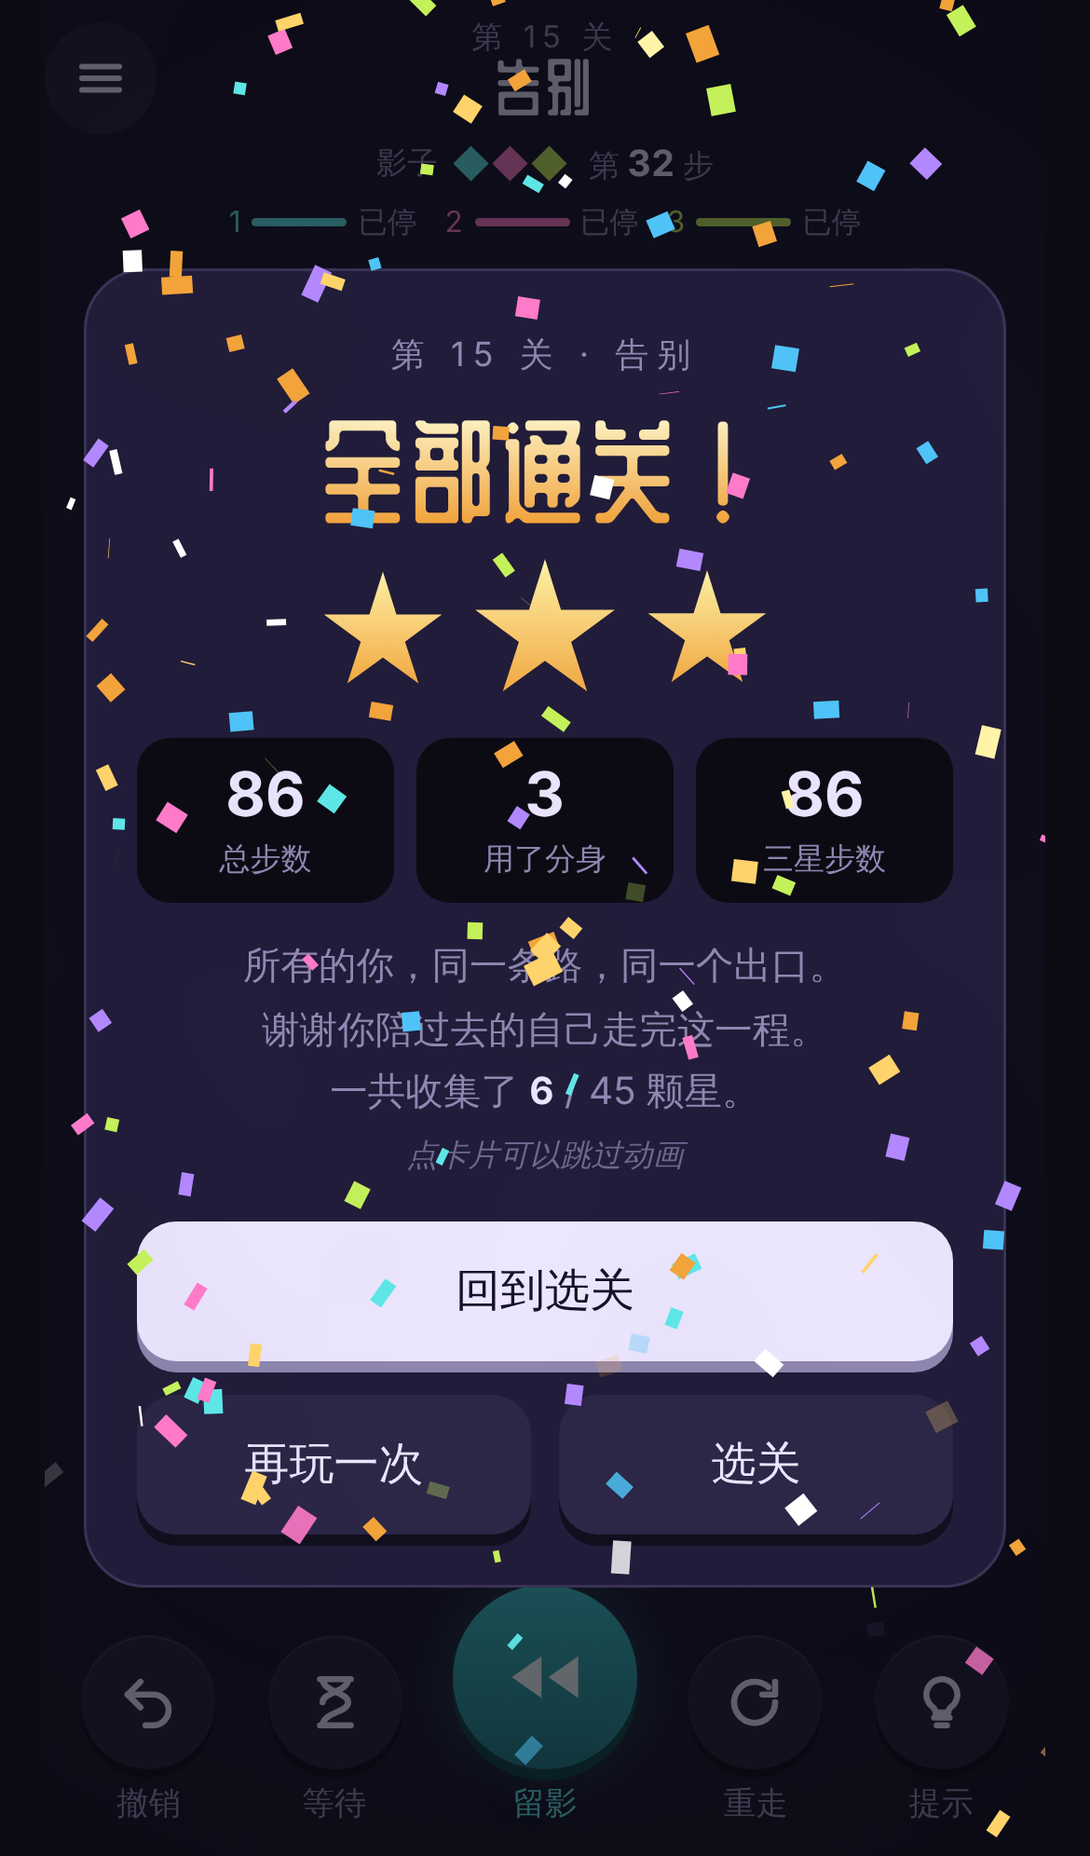
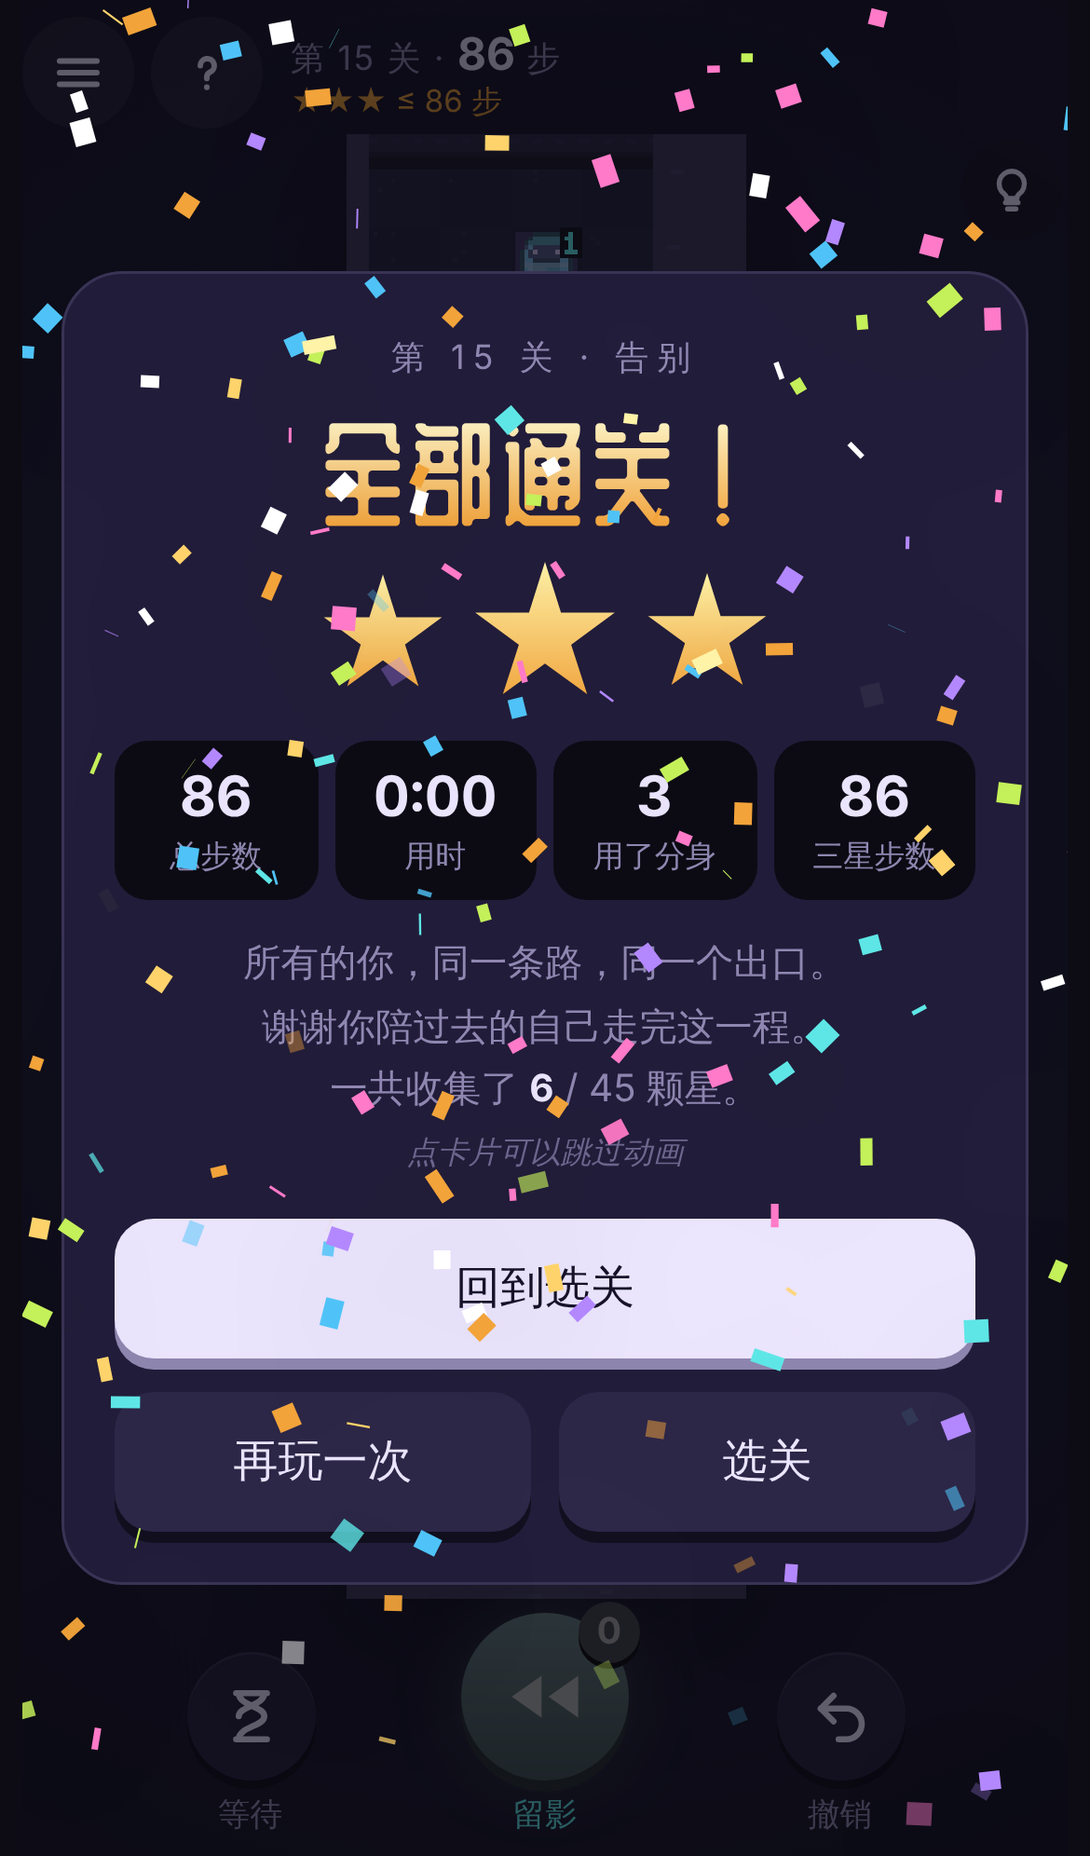
游玩时显示步数和下一档星级目标；记录每关用时，结算显示用时，选关页显示最佳步数和最短用时
Claude-Session: https://claude.ai/code/session_016AuyL4w4c3u8YAF1PVzn5C

diff --git a/index.html b/index.html
@@ -41,7 +41,10 @@ button{font:inherit;color:inherit;-webkit-tap-highlight-color:transparent;touch-
 .ico.sm svg{width:18px;height:18px}
 .ico{width:40px;height:40px;border-radius:50%;background:rgba(255,255,255,.06);border:none;cursor:pointer;display:grid;place-items:center}
 .ico svg{width:20px;height:20px}
-#lvchip{font-size:12px;color:var(--dim);letter-spacing:.08em;padding-left:4px;white-space:nowrap}
+#lvchip{font-size:12px;color:var(--dim);letter-spacing:.06em;padding-left:4px;white-space:nowrap;display:flex;flex-direction:column;gap:1px;line-height:1.25}
+#lvchip b{color:var(--ink);font-size:16px;font-variant-numeric:tabular-nums;letter-spacing:0}
+#lvchip .goal{font-size:11px;letter-spacing:0}
+#lvchip .goal.s3{color:var(--amber)}
 /* hint bulb floats on the board's top-right corner, just under the capsule */
 #hintBtn{position:absolute;top:2px;right:2px;z-index:2;background:rgba(20,17,34,.6)}
 /* level name: fades in over the board when a level starts, then goes away */
@@ -111,6 +114,7 @@ canvas{display:block;image-rendering:pixelated;image-rendering:crisp-edges;filte
 .lv small{color:var(--dim);font-size:10.5px}
 .lv.done{border-color:#4f8f56}
 .lv.done small{color:var(--mint)}
+.lv small.rec{color:var(--dim);font-size:10px;white-space:nowrap}
 .lv:disabled{opacity:.35;cursor:not-allowed}
 #winOv{background:rgba(10,9,16,.62);align-items:center}
 #helpList{display:flex;flex-direction:column;gap:10px}
@@ -127,9 +131,9 @@ canvas{display:block;image-rendering:pixelated;image-rendering:crisp-edges;filte
 #stars i:nth-child(2){width:52px;height:52px}
 #stars i.on{background:linear-gradient(180deg,#fff3a8,#f2a33a);animation:starpop .45s cubic-bezier(.2,1.8,.4,1) both;filter:drop-shadow(0 0 10px rgba(242,163,58,.6))}
 @keyframes starpop{0%{transform:scale(0) rotate(-40deg)}100%{transform:scale(1) rotate(0)}}
-#winStats{display:grid;grid-template-columns:repeat(3,1fr);gap:8px}
+#winStats{display:grid;grid-template-columns:repeat(4,1fr);gap:6px}
 #winStats div{background:var(--bg);border-radius:12px;padding:8px 4px;display:flex;flex-direction:column;gap:2px}
-#winStats b{font-size:22px;font-variant-numeric:tabular-nums}
+#winStats b{font-size:20px;font-variant-numeric:tabular-nums}
 #winStats span{font-size:11px;color:var(--dim)}
 #newRec{align-self:center;font-size:12px;color:#1a1426;background:var(--amber);border-radius:999px;padding:3px 10px;animation:pop .4s .9s cubic-bezier(.2,1.6,.4,1) both}
 #winP{font-size:13.5px}
@@ -149,7 +153,7 @@ canvas{display:block;image-rendering:pixelated;image-rendering:crisp-edges;filte
 <div id="app">
   <div id="top">
     <div id="topL"><button class="ico" id="menuBtn" type="button" aria-label="菜单"><svg viewBox="0 0 24 24" fill="none" stroke="currentColor" stroke-width="2.4" stroke-linecap="round"><path d="M4 7h16M4 12h16M4 17h16"/></svg></button>
-    <button class="ico" id="helpBtn" type="button" aria-label="帮助"><svg viewBox="0 0 24 24" fill="none" stroke="currentColor" stroke-width="2.4" stroke-linecap="round" stroke-linejoin="round"><path d="M9.2 9a3 3 0 1 1 4.3 2.7c-.9.4-1.5 1.2-1.5 2.2v.6"/><path d="M12 18.2v.1"/></svg></button><span id="lvchip">第 1 关</span></div>
+    <button class="ico" id="helpBtn" type="button" aria-label="帮助"><svg viewBox="0 0 24 24" fill="none" stroke="currentColor" stroke-width="2.4" stroke-linecap="round" stroke-linejoin="round"><path d="M9.2 9a3 3 0 1 1 4.3 2.7c-.9.4-1.5 1.2-1.5 2.2v.6"/><path d="M12 18.2v.1"/></svg></button><span id="lvchip"></span></div>
   </div>
   <div id="stage"><canvas id="cv"></canvas><button class="ico sm" id="hintBtn" data-c="solve" type="button" aria-label="提示"><svg viewBox="0 0 24 24" fill="none" stroke="currentColor" stroke-width="2.4" stroke-linecap="round" stroke-linejoin="round"><path d="M9 18h6M10 21h4M12 3a6 6 0 0 0-3.5 10.9c.6.5 1 1.2 1 2.1h5c0-.9.4-1.6 1-2.1A6 6 0 0 0 12 3z"/></svg></button><div id="intro"></div><div id="toast"></div><div id="tip" hidden><span id="tipText"></span><button id="tipSolve" type="button">演示解法</button></div><div id="coach" hidden><i></i>在棋盘上滑动来移动，点自己原地等一步</div></div>
   <div id="bar">
@@ -201,7 +205,7 @@ canvas{display:block;image-rendering:pixelated;image-rendering:crisp-edges;filte
       <div id="winKicker">第 1 关 · 回声</div>
       <h2 id="winT">通关！</h2>
       <div id="stars" aria-label="星级"><i></i><i></i><i></i></div>
-      <div id="winStats"><div><b id="wsSteps">0</b><span>总步数</span></div><div><b id="wsGhosts">0</b><span>用了分身</span></div><div><b id="wsPar">0</b><span>三星步数</span></div></div>
+      <div id="winStats"><div><b id="wsSteps">0</b><span>总步数</span></div><div><b id="wsTime">0:00</b><span>用时</span></div><div><b id="wsGhosts">0</b><span>用了分身</span></div><div><b id="wsPar">0</b><span>三星步数</span></div></div>
       <div id="newRec" hidden>新纪录</div>
       <p id="winP"></p>
       <div class="row"><button class="btn pri" id="nextBtn" type="button">下一关</button></div>
@@ -317,6 +321,11 @@ const PLATE_COL={a:'#f2a33a',b:'#4fc3f7',c:'#b388ff',d:'#7ee081'};
 const MOVE_MS=115;
 const store={get(k,d){try{const v=localStorage.getItem(k);return v?JSON.parse(v):d;}catch(e){return d;}},set(k,v){try{localStorage.setItem(k,JSON.stringify(v));}catch(e){}}};
 let progress=store.get('zuori-progress2',null);
+let playMs=0,playT0=0;
+function clockStart(){playMs=0;playT0=document.hidden?0:performance.now();}
+function clockNow(){return playMs+(playT0?performance.now()-playT0:0);}
+document.addEventListener('visibilitychange',()=>{if(document.hidden){if(playT0){playMs+=performance.now()-playT0;playT0=0;}}else if(!playT0)playT0=performance.now();});
+function fmtTime(ms){const t=Math.round(ms/1000);return Math.floor(t/60)+':'+String(t%60).padStart(2,'0');}
 if(!progress){progress={solved:{}};const old=store.get('zuori-progress',{solved:{}});
   for(const k in old.solved){const n=OLD_ORDER[+k];if(n)progress.solved[n]=old.solved[k];}}
 function maxOpenIdx(){let i=0;while(i<LEVELS.length-1&&progress.solved[LEVELS[i].name])i++;return i;}
@@ -408,7 +417,7 @@ function applyRot(r){if(r===rot)return;rot=r;ghosts=ghosts.map(swapArr);cur=swap
 function loadLevel(i,keep){li=i;L=LEVELS[i];rot=wantRot();g=parseLevel(levelView());ghosts=[];cur=[];won=false;winShown=false;queue=[];rewinding=null;autoplay=null;particles=[];
     recompute(true);doorOpen=frames[0].doors.slice().map(v=>v?1:0);
   buf.width=g.W*TS;buf.height=g.H*TS;calcView();resize();
-  $('lvchip').textContent='第 '+(i+1)+' 关';
+  clockStart();
   $('tip').hidden=true;$('coach').hidden=!!store.get('zuori-coached',false);
   hideOv();{const it=$('intro');it.innerHTML='<small>第 '+(i+1)+' 关</small>'+L.name;it.classList.remove('show');void it.offsetWidth;it.classList.add('show');}
   store.set('zuori-last',i);
@@ -421,6 +430,10 @@ function curFrame(){return frames[frames.length-1];}
 
 function updateHud(){
   const left=L.cap-ghosts.length;$('rwLeft').textContent=left;$('rwBtn').classList.toggle('empty',left<=0);
+  // steps so far (shadows' rounds + this round) and how many the next star allows
+  const n=ghosts.reduce((t,r)=>t+r.length,0)+cur.length,par=parOf(L),p2=Math.ceil(par*1.35)+2;
+  const goal=n<=par?'<span class="goal s3">★★★ ≤ '+par+' 步</span>':n<=p2?'<span class="goal">★★ ≤ '+p2+' 步</span>':'<span class="goal">★</span>';
+  $('lvchip').innerHTML='<span>第 '+(li+1)+' 关 · <b>'+n+'</b> 步</span>'+goal;
 }
 
 // ---------- input ----------
@@ -501,7 +514,7 @@ function showSel(){hideOv();const gr=$('grid');gr.innerHTML='';
   const maxOpen=maxOpenIdx();
   LEVELS.forEach((lv,i)=>{const bt=document.createElement('button');bt.type='button';const done=progress.solved[lv.name];
     bt.className='lv'+(done?' done':'');bt.disabled=i>maxOpen;
-    bt.innerHTML='<span>'+(i+1)+'</span>'+lv.name+(done?'<small class="st">'+'★'.repeat(done.stars||1)+'☆'.repeat(3-(done.stars||1))+'</small>':'<small>'+(i>maxOpen?'未解锁':lv.cap+' 个影子')+'</small>');
+    bt.innerHTML='<span>'+(i+1)+'</span>'+lv.name+(done?'<small class="st">'+'★'.repeat(done.stars||1)+'☆'.repeat(3-(done.stars||1))+'</small><small class="rec">'+done.steps+'步'+(done.ms!=null?' · '+fmtTime(done.ms):'')+'</small>':'<small>'+(i>maxOpen?'未解锁':lv.cap+' 个影子')+'</small>');
     bt.onclick=()=>loadLevel(i);gr.appendChild(bt);});
   $('selOv').hidden=false;}
 $('startBtn').onclick=()=>{ac();const last=store.get('zuori-last',0);const maxOpen=maxOpenIdx();loadLevel(Math.min(last,maxOpen,LEVELS.length-1));};
@@ -525,11 +538,12 @@ $('muteBtn').onclick=toggleMute;$('muteBtn').textContent='声音：'+(muted?'关
 // ---------- win celebration ----------
 function parOf(lv){return lv.sol.reduce((n,x)=>n+x.length,0);}
 function starsFor(lv,steps){const par=parOf(lv);return steps<=par?3:steps<=Math.ceil(par*1.35)+2?2:1;}
-let celeT0=0,winTimer=null,winAnim=[];
+let celeT0=0,winTimer=null,winAnim=[],lastMs=0;
 function onWin(){autoplay=autoplay&&autoplay.loop<L.sol.length?autoplay:null;
   const steps=ghosts.reduce((s,r)=>s+r.length,0)+cur.length;const stars=starsFor(L,steps);
-  const prev=progress.solved[L.name];const rec=!prev||steps<prev.steps;
-  progress.solved[L.name]={steps:rec?steps:prev.steps,stars:Math.max(stars,prev&&prev.stars||0)};store.set('zuori-progress2',progress);
+  const ms=clockNow();const prev=progress.solved[L.name];const rec=!prev||steps<prev.steps||(prev.ms==null||ms<prev.ms);
+  progress.solved[L.name]={steps:prev?Math.min(steps,prev.steps):steps,stars:Math.max(stars,prev&&prev.stars||0),ms:prev&&prev.ms!=null?Math.min(ms,prev.ms):ms};store.set('zuori-progress2',progress);
+  lastMs=ms;
   if(fast)return;
   const last=li===LEVELS.length-1;celeT0=performance.now();
   SFX.win();vibrate(last?[30,50,30,50,30,50,120]:[25,40,25,40,70]);
@@ -540,7 +554,7 @@ function showWin(steps,stars,prev,rec,last){if(!won||winShown)return;winShown=tr
   const ov=$('winOv');ov.classList.remove('skip');ov.classList.toggle('finale',last);
   $('winKicker').textContent='第 '+(li+1)+' 关 · '+L.name;
   $('winT').textContent=last?'全部通关！':['','过关','漂亮！','完美！'][stars];
-  $('wsGhosts').textContent=ghosts.length;$('wsPar').textContent=parOf(L);$('wsSteps').textContent='0';
+  $('wsGhosts').textContent=ghosts.length;$('wsTime').textContent=fmtTime(lastMs);$('wsPar').textContent=parOf(L);$('wsSteps').textContent='0';
   $('newRec').hidden=!(rec&&prev);
   const total=LEVELS.reduce((n,lv)=>n+(progress.solved[lv.name]?.stars||0),0);
   $('winP').innerHTML=last?['所有的你，同一条路，同一个出口。','谢谢你陪过去的自己走完这一程。','一共收集了 <b>'+total+'</b> / '+LEVELS.length*3+' 颗星。','<i id="skipHint">点卡片可以跳过动画</i>'].map((t,i)=>'<span style="animation-delay:'+(0.9+i*0.6)+'s">'+t+'</span>').join('')

diff --git a/src/game.src.html b/src/game.src.html
@@ -33,7 +33,10 @@ button{font:inherit;color:inherit;-webkit-tap-highlight-color:transparent;touch-
 .ico.sm svg{width:18px;height:18px}
 .ico{width:40px;height:40px;border-radius:50%;background:rgba(255,255,255,.06);border:none;cursor:pointer;display:grid;place-items:center}
 .ico svg{width:20px;height:20px}
-#lvchip{font-size:12px;color:var(--dim);letter-spacing:.08em;padding-left:4px;white-space:nowrap}
+#lvchip{font-size:12px;color:var(--dim);letter-spacing:.06em;padding-left:4px;white-space:nowrap;display:flex;flex-direction:column;gap:1px;line-height:1.25}
+#lvchip b{color:var(--ink);font-size:16px;font-variant-numeric:tabular-nums;letter-spacing:0}
+#lvchip .goal{font-size:11px;letter-spacing:0}
+#lvchip .goal.s3{color:var(--amber)}
 /* hint bulb floats on the board's top-right corner, just under the capsule */
 #hintBtn{position:absolute;top:2px;right:2px;z-index:2;background:rgba(20,17,34,.6)}
 /* level name: fades in over the board when a level starts, then goes away */
@@ -103,6 +106,7 @@ canvas{display:block;image-rendering:pixelated;image-rendering:crisp-edges;filte
 .lv small{color:var(--dim);font-size:10.5px}
 .lv.done{border-color:#4f8f56}
 .lv.done small{color:var(--mint)}
+.lv small.rec{color:var(--dim);font-size:10px;white-space:nowrap}
 .lv:disabled{opacity:.35;cursor:not-allowed}
 #winOv{background:rgba(10,9,16,.62);align-items:center}
 #helpList{display:flex;flex-direction:column;gap:10px}
@@ -119,9 +123,9 @@ canvas{display:block;image-rendering:pixelated;image-rendering:crisp-edges;filte
 #stars i:nth-child(2){width:52px;height:52px}
 #stars i.on{background:linear-gradient(180deg,#fff3a8,#f2a33a);animation:starpop .45s cubic-bezier(.2,1.8,.4,1) both;filter:drop-shadow(0 0 10px rgba(242,163,58,.6))}
 @keyframes starpop{0%{transform:scale(0) rotate(-40deg)}100%{transform:scale(1) rotate(0)}}
-#winStats{display:grid;grid-template-columns:repeat(3,1fr);gap:8px}
+#winStats{display:grid;grid-template-columns:repeat(4,1fr);gap:6px}
 #winStats div{background:var(--bg);border-radius:12px;padding:8px 4px;display:flex;flex-direction:column;gap:2px}
-#winStats b{font-size:22px;font-variant-numeric:tabular-nums}
+#winStats b{font-size:20px;font-variant-numeric:tabular-nums}
 #winStats span{font-size:11px;color:var(--dim)}
 #newRec{align-self:center;font-size:12px;color:#1a1426;background:var(--amber);border-radius:999px;padding:3px 10px;animation:pop .4s .9s cubic-bezier(.2,1.6,.4,1) both}
 #winP{font-size:13.5px}
@@ -138,7 +142,7 @@ canvas{display:block;image-rendering:pixelated;image-rendering:crisp-edges;filte
 <div id="app">
   <div id="top">
     <div id="topL"><button class="ico" id="menuBtn" type="button" aria-label="菜单"><svg viewBox="0 0 24 24" fill="none" stroke="currentColor" stroke-width="2.4" stroke-linecap="round"><path d="M4 7h16M4 12h16M4 17h16"/></svg></button>
-    <button class="ico" id="helpBtn" type="button" aria-label="帮助"><svg viewBox="0 0 24 24" fill="none" stroke="currentColor" stroke-width="2.4" stroke-linecap="round" stroke-linejoin="round"><path d="M9.2 9a3 3 0 1 1 4.3 2.7c-.9.4-1.5 1.2-1.5 2.2v.6"/><path d="M12 18.2v.1"/></svg></button><span id="lvchip">第 1 关</span></div>
+    <button class="ico" id="helpBtn" type="button" aria-label="帮助"><svg viewBox="0 0 24 24" fill="none" stroke="currentColor" stroke-width="2.4" stroke-linecap="round" stroke-linejoin="round"><path d="M9.2 9a3 3 0 1 1 4.3 2.7c-.9.4-1.5 1.2-1.5 2.2v.6"/><path d="M12 18.2v.1"/></svg></button><span id="lvchip"></span></div>
   </div>
   <div id="stage"><canvas id="cv"></canvas><button class="ico sm" id="hintBtn" data-c="solve" type="button" aria-label="提示"><svg viewBox="0 0 24 24" fill="none" stroke="currentColor" stroke-width="2.4" stroke-linecap="round" stroke-linejoin="round"><path d="M9 18h6M10 21h4M12 3a6 6 0 0 0-3.5 10.9c.6.5 1 1.2 1 2.1h5c0-.9.4-1.6 1-2.1A6 6 0 0 0 12 3z"/></svg></button><div id="intro"></div><div id="toast"></div><div id="tip" hidden><span id="tipText"></span><button id="tipSolve" type="button">演示解法</button></div><div id="coach" hidden><i></i>在棋盘上滑动来移动，点自己原地等一步</div></div>
   <div id="bar">
@@ -190,7 +194,7 @@ canvas{display:block;image-rendering:pixelated;image-rendering:crisp-edges;filte
       <div id="winKicker">第 1 关 · 回声</div>
       <h2 id="winT">通关！</h2>
       <div id="stars" aria-label="星级"><i></i><i></i><i></i></div>
-      <div id="winStats"><div><b id="wsSteps">0</b><span>总步数</span></div><div><b id="wsGhosts">0</b><span>用了分身</span></div><div><b id="wsPar">0</b><span>三星步数</span></div></div>
+      <div id="winStats"><div><b id="wsSteps">0</b><span>总步数</span></div><div><b id="wsTime">0:00</b><span>用时</span></div><div><b id="wsGhosts">0</b><span>用了分身</span></div><div><b id="wsPar">0</b><span>三星步数</span></div></div>
       <div id="newRec" hidden>新纪录</div>
       <p id="winP"></p>
       <div class="row"><button class="btn pri" id="nextBtn" type="button">下一关</button></div>
@@ -212,6 +216,11 @@ const PLATE_COL={a:'#f2a33a',b:'#4fc3f7',c:'#b388ff',d:'#7ee081'};
 const MOVE_MS=115;
 const store={get(k,d){try{const v=localStorage.getItem(k);return v?JSON.parse(v):d;}catch(e){return d;}},set(k,v){try{localStorage.setItem(k,JSON.stringify(v));}catch(e){}}};
 let progress=store.get('zuori-progress2',null);
+let playMs=0,playT0=0;
+function clockStart(){playMs=0;playT0=document.hidden?0:performance.now();}
+function clockNow(){return playMs+(playT0?performance.now()-playT0:0);}
+document.addEventListener('visibilitychange',()=>{if(document.hidden){if(playT0){playMs+=performance.now()-playT0;playT0=0;}}else if(!playT0)playT0=performance.now();});
+function fmtTime(ms){const t=Math.round(ms/1000);return Math.floor(t/60)+':'+String(t%60).padStart(2,'0');}
 if(!progress){progress={solved:{}};const old=store.get('zuori-progress',{solved:{}});
   for(const k in old.solved){const n=OLD_ORDER[+k];if(n)progress.solved[n]=old.solved[k];}}
 function maxOpenIdx(){let i=0;while(i<LEVELS.length-1&&progress.solved[LEVELS[i].name])i++;return i;}
@@ -303,7 +312,7 @@ function applyRot(r){if(r===rot)return;rot=r;ghosts=ghosts.map(swapArr);cur=swap
 function loadLevel(i,keep){li=i;L=LEVELS[i];rot=wantRot();g=parseLevel(levelView());ghosts=[];cur=[];won=false;winShown=false;queue=[];rewinding=null;autoplay=null;particles=[];
     recompute(true);doorOpen=frames[0].doors.slice().map(v=>v?1:0);
   buf.width=g.W*TS;buf.height=g.H*TS;calcView();resize();
-  $('lvchip').textContent='第 '+(i+1)+' 关';
+  clockStart();
   $('tip').hidden=true;$('coach').hidden=!!store.get('zuori-coached',false);
   hideOv();{const it=$('intro');it.innerHTML='<small>第 '+(i+1)+' 关</small>'+L.name;it.classList.remove('show');void it.offsetWidth;it.classList.add('show');}
   store.set('zuori-last',i);
@@ -316,6 +325,10 @@ function curFrame(){return frames[frames.length-1];}
 
 function updateHud(){
   const left=L.cap-ghosts.length;$('rwLeft').textContent=left;$('rwBtn').classList.toggle('empty',left<=0);
+  // steps so far (shadows' rounds + this round) and how many the next star allows
+  const n=ghosts.reduce((t,r)=>t+r.length,0)+cur.length,par=parOf(L),p2=Math.ceil(par*1.35)+2;
+  const goal=n<=par?'<span class="goal s3">★★★ ≤ '+par+' 步</span>':n<=p2?'<span class="goal">★★ ≤ '+p2+' 步</span>':'<span class="goal">★</span>';
+  $('lvchip').innerHTML='<span>第 '+(li+1)+' 关 · <b>'+n+'</b> 步</span>'+goal;
 }
 
 // ---------- input ----------
@@ -396,7 +409,7 @@ function showSel(){hideOv();const gr=$('grid');gr.innerHTML='';
   const maxOpen=maxOpenIdx();
   LEVELS.forEach((lv,i)=>{const bt=document.createElement('button');bt.type='button';const done=progress.solved[lv.name];
     bt.className='lv'+(done?' done':'');bt.disabled=i>maxOpen;
-    bt.innerHTML='<span>'+(i+1)+'</span>'+lv.name+(done?'<small class="st">'+'★'.repeat(done.stars||1)+'☆'.repeat(3-(done.stars||1))+'</small>':'<small>'+(i>maxOpen?'未解锁':lv.cap+' 个影子')+'</small>');
+    bt.innerHTML='<span>'+(i+1)+'</span>'+lv.name+(done?'<small class="st">'+'★'.repeat(done.stars||1)+'☆'.repeat(3-(done.stars||1))+'</small><small class="rec">'+done.steps+'步'+(done.ms!=null?' · '+fmtTime(done.ms):'')+'</small>':'<small>'+(i>maxOpen?'未解锁':lv.cap+' 个影子')+'</small>');
     bt.onclick=()=>loadLevel(i);gr.appendChild(bt);});
   $('selOv').hidden=false;}
 $('startBtn').onclick=()=>{ac();const last=store.get('zuori-last',0);const maxOpen=maxOpenIdx();loadLevel(Math.min(last,maxOpen,LEVELS.length-1));};
@@ -420,11 +433,12 @@ $('muteBtn').onclick=toggleMute;$('muteBtn').textContent='声音：'+(muted?'关
 // ---------- win celebration ----------
 function parOf(lv){return lv.sol.reduce((n,x)=>n+x.length,0);}
 function starsFor(lv,steps){const par=parOf(lv);return steps<=par?3:steps<=Math.ceil(par*1.35)+2?2:1;}
-let celeT0=0,winTimer=null,winAnim=[];
+let celeT0=0,winTimer=null,winAnim=[],lastMs=0;
 function onWin(){autoplay=autoplay&&autoplay.loop<L.sol.length?autoplay:null;
   const steps=ghosts.reduce((s,r)=>s+r.length,0)+cur.length;const stars=starsFor(L,steps);
-  const prev=progress.solved[L.name];const rec=!prev||steps<prev.steps;
-  progress.solved[L.name]={steps:rec?steps:prev.steps,stars:Math.max(stars,prev&&prev.stars||0)};store.set('zuori-progress2',progress);
+  const ms=clockNow();const prev=progress.solved[L.name];const rec=!prev||steps<prev.steps||(prev.ms==null||ms<prev.ms);
+  progress.solved[L.name]={steps:prev?Math.min(steps,prev.steps):steps,stars:Math.max(stars,prev&&prev.stars||0),ms:prev&&prev.ms!=null?Math.min(ms,prev.ms):ms};store.set('zuori-progress2',progress);
+  lastMs=ms;
   if(fast)return;
   const last=li===LEVELS.length-1;celeT0=performance.now();
   SFX.win();vibrate(last?[30,50,30,50,30,50,120]:[25,40,25,40,70]);
@@ -435,7 +449,7 @@ function showWin(steps,stars,prev,rec,last){if(!won||winShown)return;winShown=tr
   const ov=$('winOv');ov.classList.remove('skip');ov.classList.toggle('finale',last);
   $('winKicker').textContent='第 '+(li+1)+' 关 · '+L.name;
   $('winT').textContent=last?'全部通关！':['','过关','漂亮！','完美！'][stars];
-  $('wsGhosts').textContent=ghosts.length;$('wsPar').textContent=parOf(L);$('wsSteps').textContent='0';
+  $('wsGhosts').textContent=ghosts.length;$('wsTime').textContent=fmtTime(lastMs);$('wsPar').textContent=parOf(L);$('wsSteps').textContent='0';
   $('newRec').hidden=!(rec&&prev);
   const total=LEVELS.reduce((n,lv)=>n+(progress.solved[lv.name]?.stars||0),0);
   $('winP').innerHTML=last?['所有的你，同一条路，同一个出口。','谢谢你陪过去的自己走完这一程。','一共收集了 <b>'+total+'</b> / '+LEVELS.length*3+' 颗星。','<i id="skipHint">点卡片可以跳过动画</i>'].map((t,i)=>'<span style="animation-delay:'+(0.9+i*0.6)+'s">'+t+'</span>').join('')
